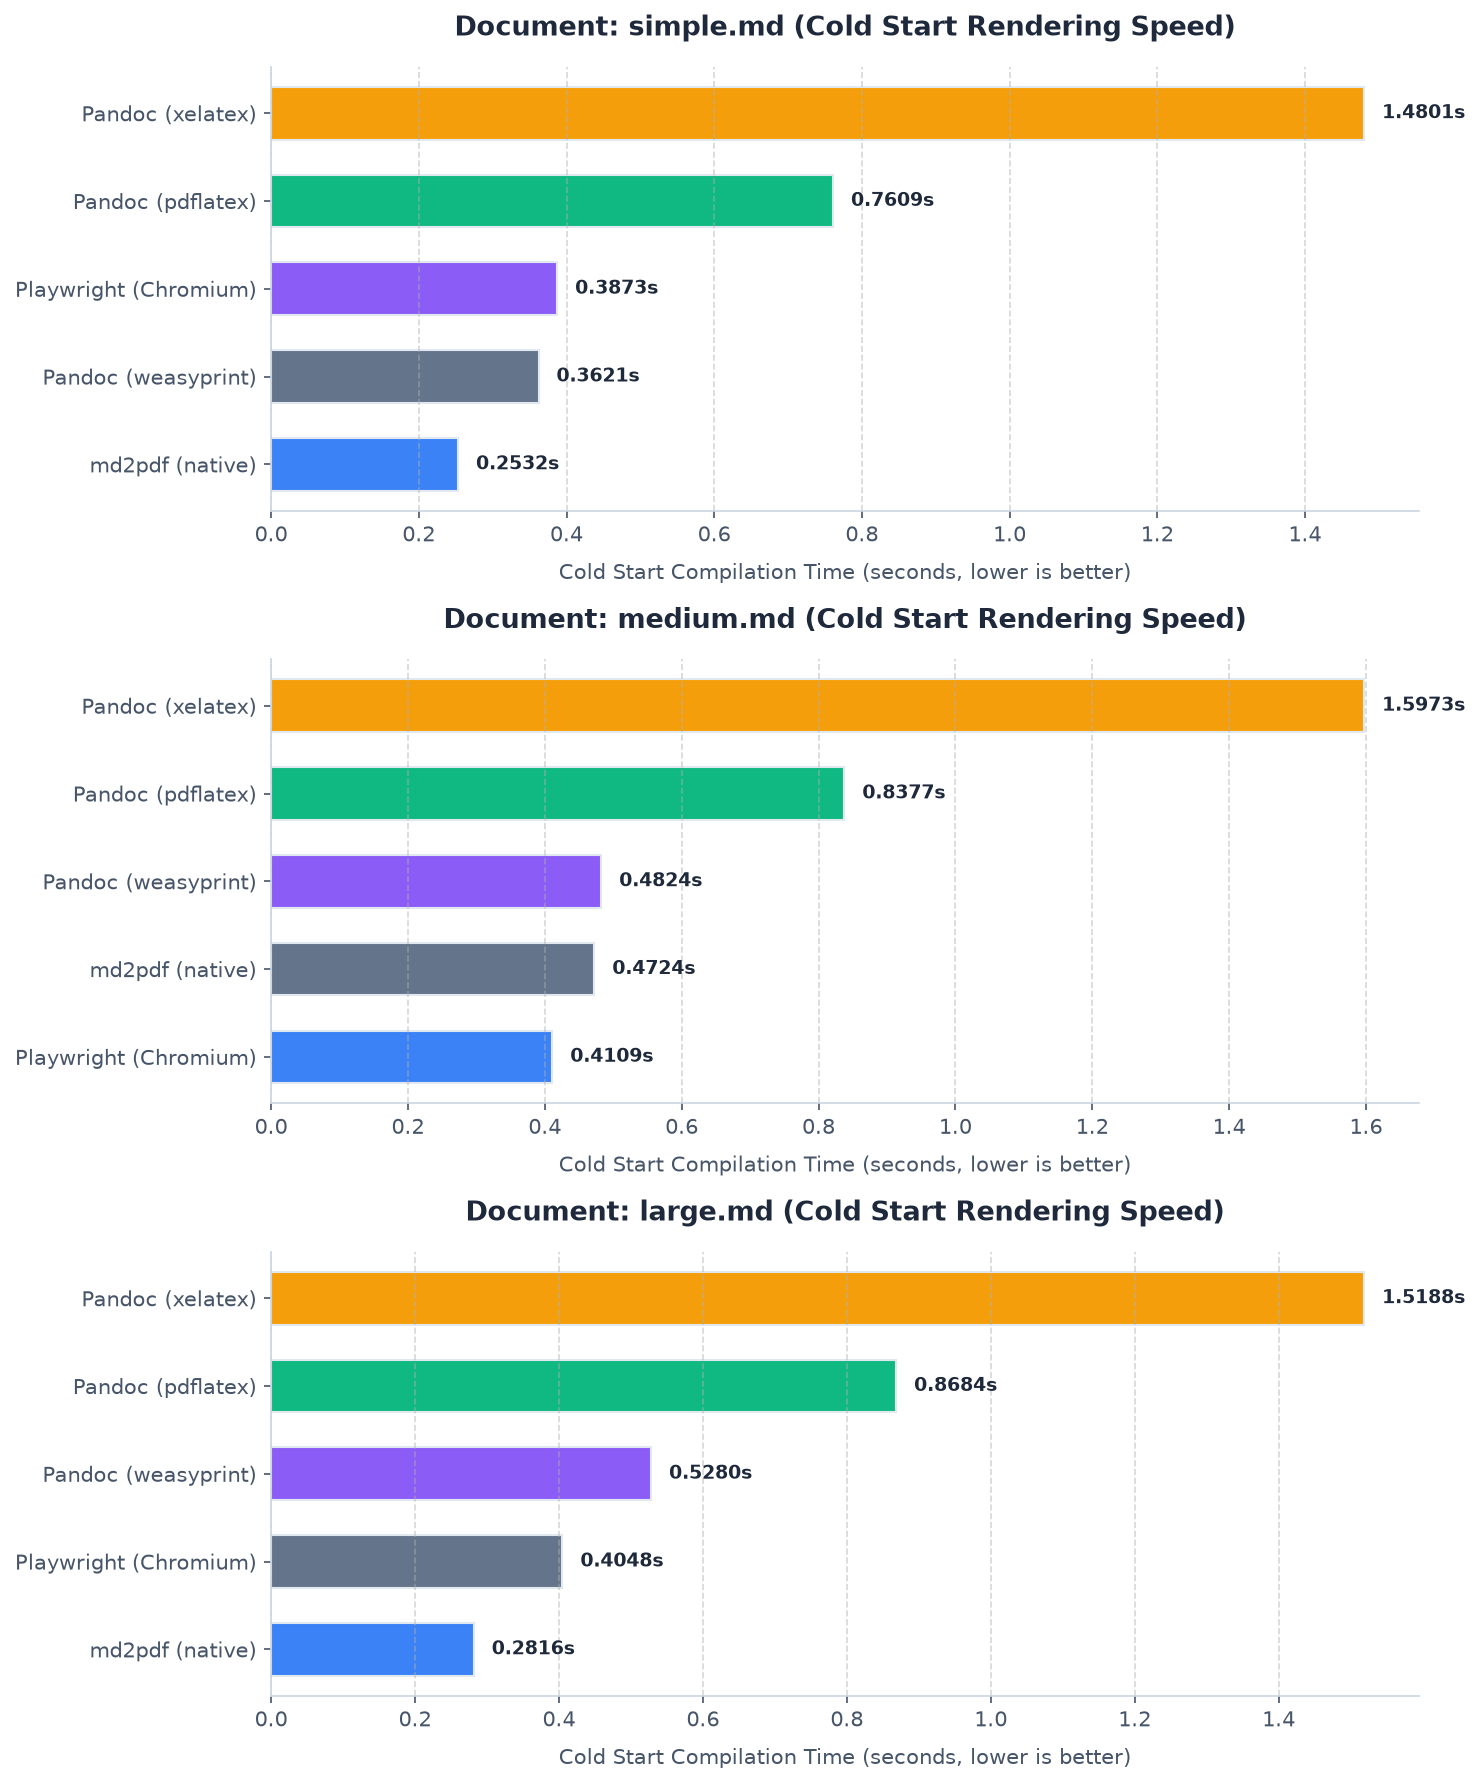
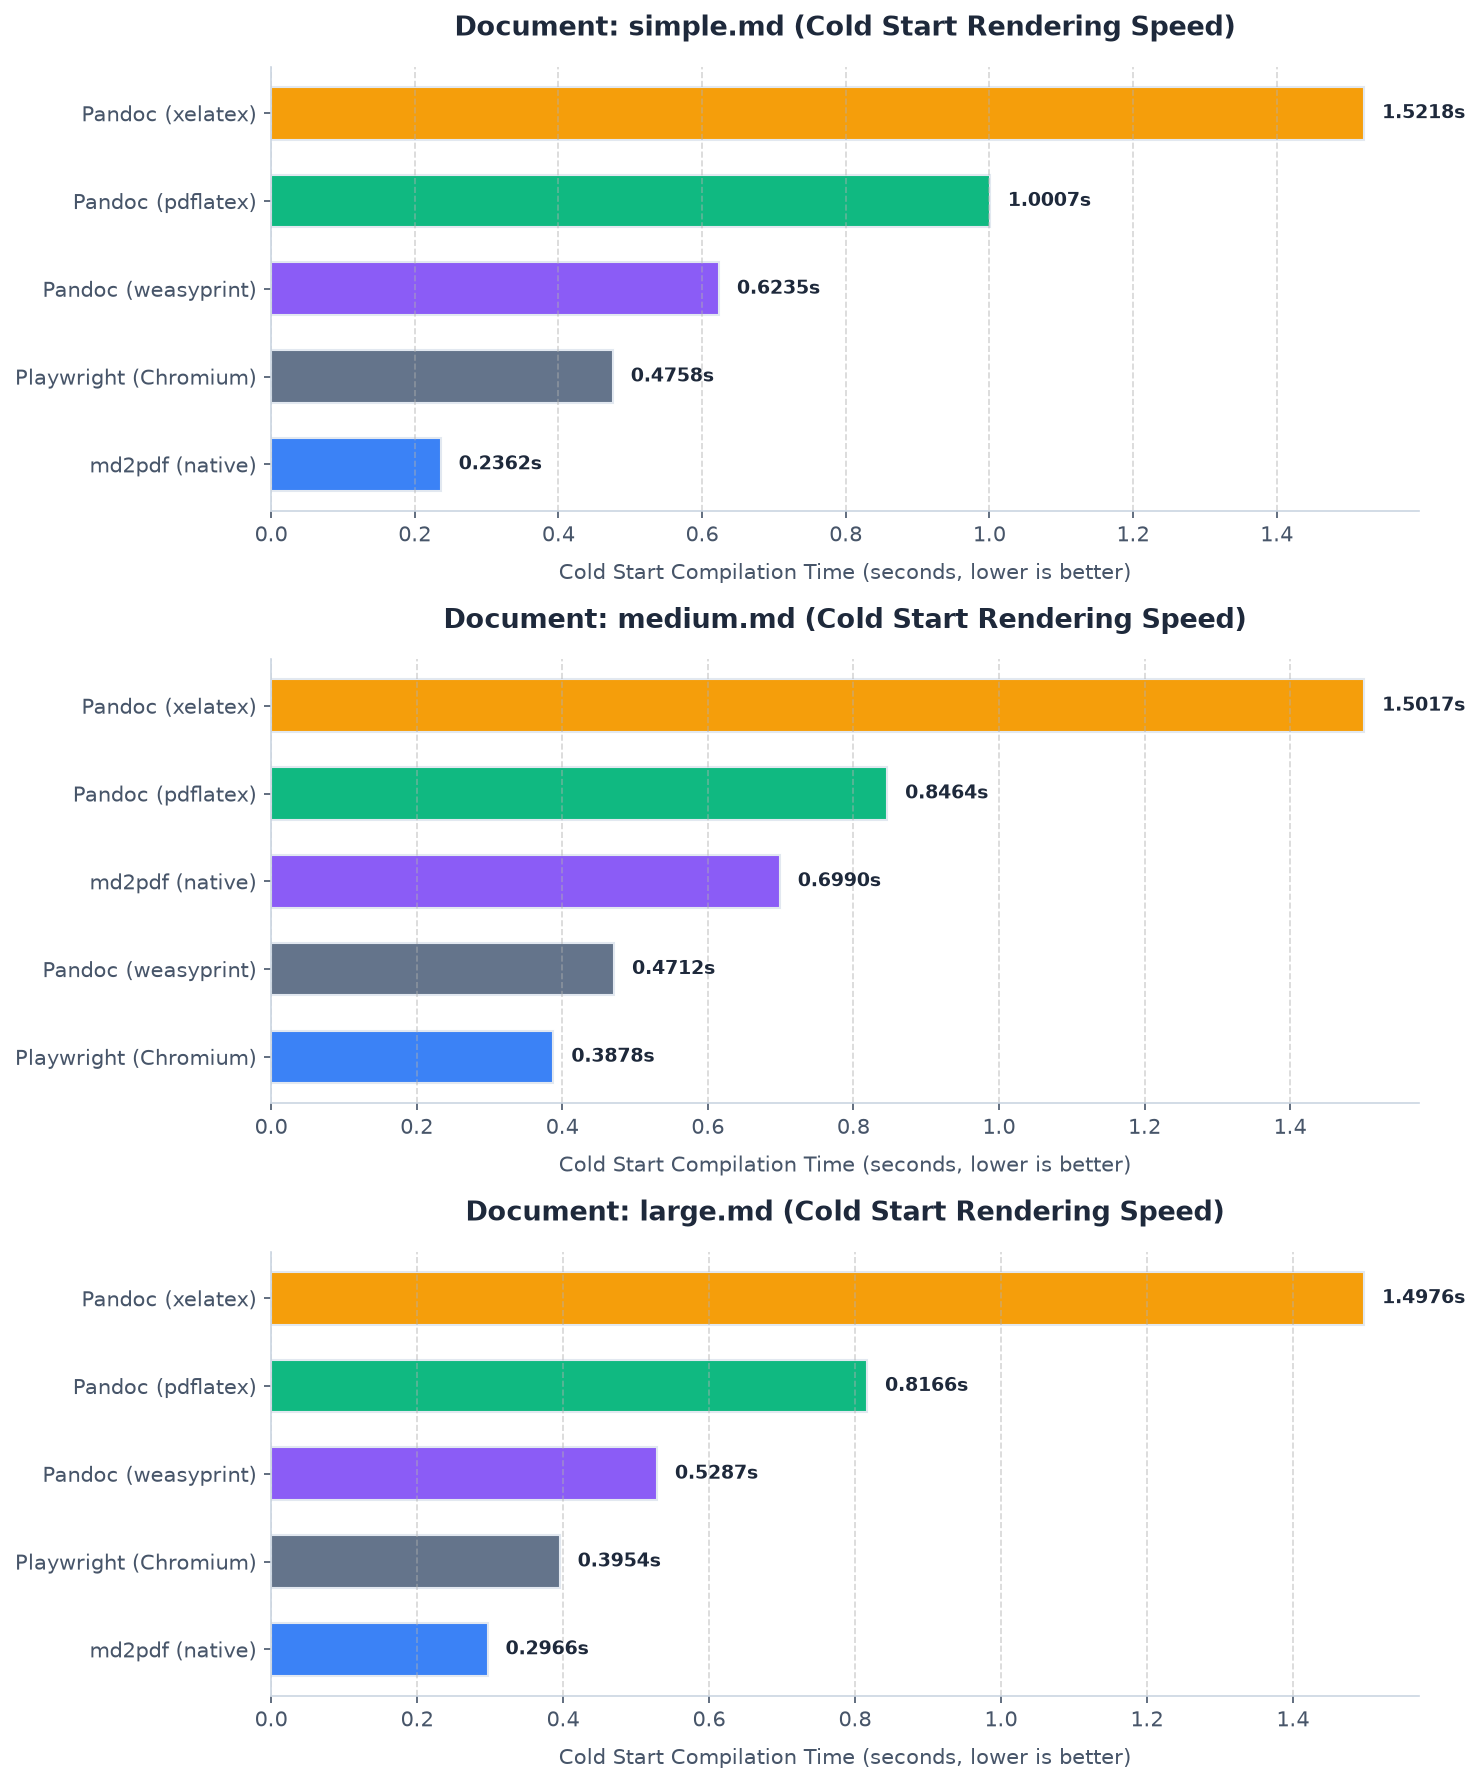
chore: update benchmark results and output charts

diff --git a/scripts/benchmark_outputs/benchmark_results.md b/scripts/benchmark_outputs/benchmark_results.md
@@ -1,10 +1,10 @@
 # Rendering Performance Report
-**Date:** 2026-06-14 23:12:46
+**Date:** 2026-06-15 21:19:10
 **Platform:** macOS-26.5.1-arm64-arm-64bit-Mach-O (arm)
 **Python Version:** 3.13.5
 
 ## System Engine Versions
-- **md2pdf (native)**: 0.5.2 (Available)
+- **md2pdf (native)**: 0.5.3 (Available)
 - **Pandoc (pdflatex)**: Pandoc 3.9.0.2 (pdflatex) (Available)
 - **Pandoc (xelatex)**: Pandoc 3.9.0.2 (xelatex) (Available)
 - **Pandoc (weasyprint)**: Pandoc 3.9.0.2 (weasyprint) (Available)
@@ -16,28 +16,28 @@
 
 | Engine | Cold Start (s) | Warm Median (s) | Warm Mean (s) | Std Dev (s) | Status |
 | :--- | :---: | :---: | :---: | :---: | :--- |
-| md2pdf (native) | 0.2532 | **0.0143** | 0.0182 | 0.0095 | Success |
-| Playwright (Chromium) | 0.3873 | **0.0405** | 0.0426 | 0.0036 | Success |
-| Pandoc (weasyprint) | 0.3621 | **0.3695** | 0.3735 | 0.0162 | Success |
-| Pandoc (pdflatex) | 0.7609 | **0.7838** | 0.7839 | 0.0177 | Success |
-| Pandoc (xelatex) | 1.4801 | **1.4980** | 1.5025 | 0.0230 | Success |
+| md2pdf (native) | 0.2362 | **0.0191** | 0.0231 | 0.0094 | Success |
+| Playwright (Chromium) | 0.4758 | **0.0391** | 0.0411 | 0.0040 | Success |
+| Pandoc (weasyprint) | 0.6235 | **0.3415** | 0.3408 | 0.0035 | Success |
+| Pandoc (pdflatex) | 1.0007 | **0.7372** | 0.7413 | 0.0158 | Success |
+| Pandoc (xelatex) | 1.5218 | **1.4280** | 1.4354 | 0.0267 | Success |
 
 ### Document: `medium.md`
 
 | Engine | Cold Start (s) | Warm Median (s) | Warm Mean (s) | Std Dev (s) | Status |
 | :--- | :---: | :---: | :---: | :---: | :--- |
-| Playwright (Chromium) | 0.4109 | **0.0438** | 0.0455 | 0.0038 | Success |
-| md2pdf (native) | 0.4724 | **0.0461** | 0.0692 | 0.0475 | Success |
-| Pandoc (weasyprint) | 0.4824 | **0.4756** | 0.4840 | 0.0160 | Success |
-| Pandoc (pdflatex) | 0.8377 | **0.8420** | 0.8412 | 0.0094 | Success |
-| Pandoc (xelatex) | 1.5973 | **1.5374** | 1.5395 | 0.0146 | Success |
+| Playwright (Chromium) | 0.3878 | **0.0429** | 0.0441 | 0.0036 | Success |
+| md2pdf (native) | 0.6990 | **0.0650** | 0.0882 | 0.0457 | Success |
+| Pandoc (weasyprint) | 0.4712 | **0.4621** | 0.4634 | 0.0028 | Success |
+| Pandoc (pdflatex) | 0.8464 | **0.8363** | 0.8537 | 0.0472 | Success |
+| Pandoc (xelatex) | 1.5017 | **1.5009** | 1.5054 | 0.0219 | Success |
 
 ### Document: `large.md`
 
 | Engine | Cold Start (s) | Warm Median (s) | Warm Mean (s) | Std Dev (s) | Status |
 | :--- | :---: | :---: | :---: | :---: | :--- |
-| Playwright (Chromium) | 0.4048 | **0.0482** | 0.0503 | 0.0055 | Success |
-| md2pdf (native) | 0.2816 | **0.0497** | 0.0503 | 0.0016 | Success |
-| Pandoc (weasyprint) | 0.5280 | **0.5321** | 0.5367 | 0.0169 | Success |
-| Pandoc (pdflatex) | 0.8684 | **0.8424** | 0.8427 | 0.0130 | Success |
-| Pandoc (xelatex) | 1.5188 | **1.5293** | 1.5351 | 0.0162 | Success |
+| Playwright (Chromium) | 0.3954 | **0.0471** | 0.0481 | 0.0041 | Success |
+| md2pdf (native) | 0.2966 | **0.0701** | 0.0709 | 0.0016 | Success |
+| Pandoc (weasyprint) | 0.5287 | **0.5179** | 0.5185 | 0.0087 | Success |
+| Pandoc (pdflatex) | 0.8166 | **0.8305** | 0.8407 | 0.0227 | Success |
+| Pandoc (xelatex) | 1.4976 | **1.5126** | 1.5196 | 0.0243 | Success |